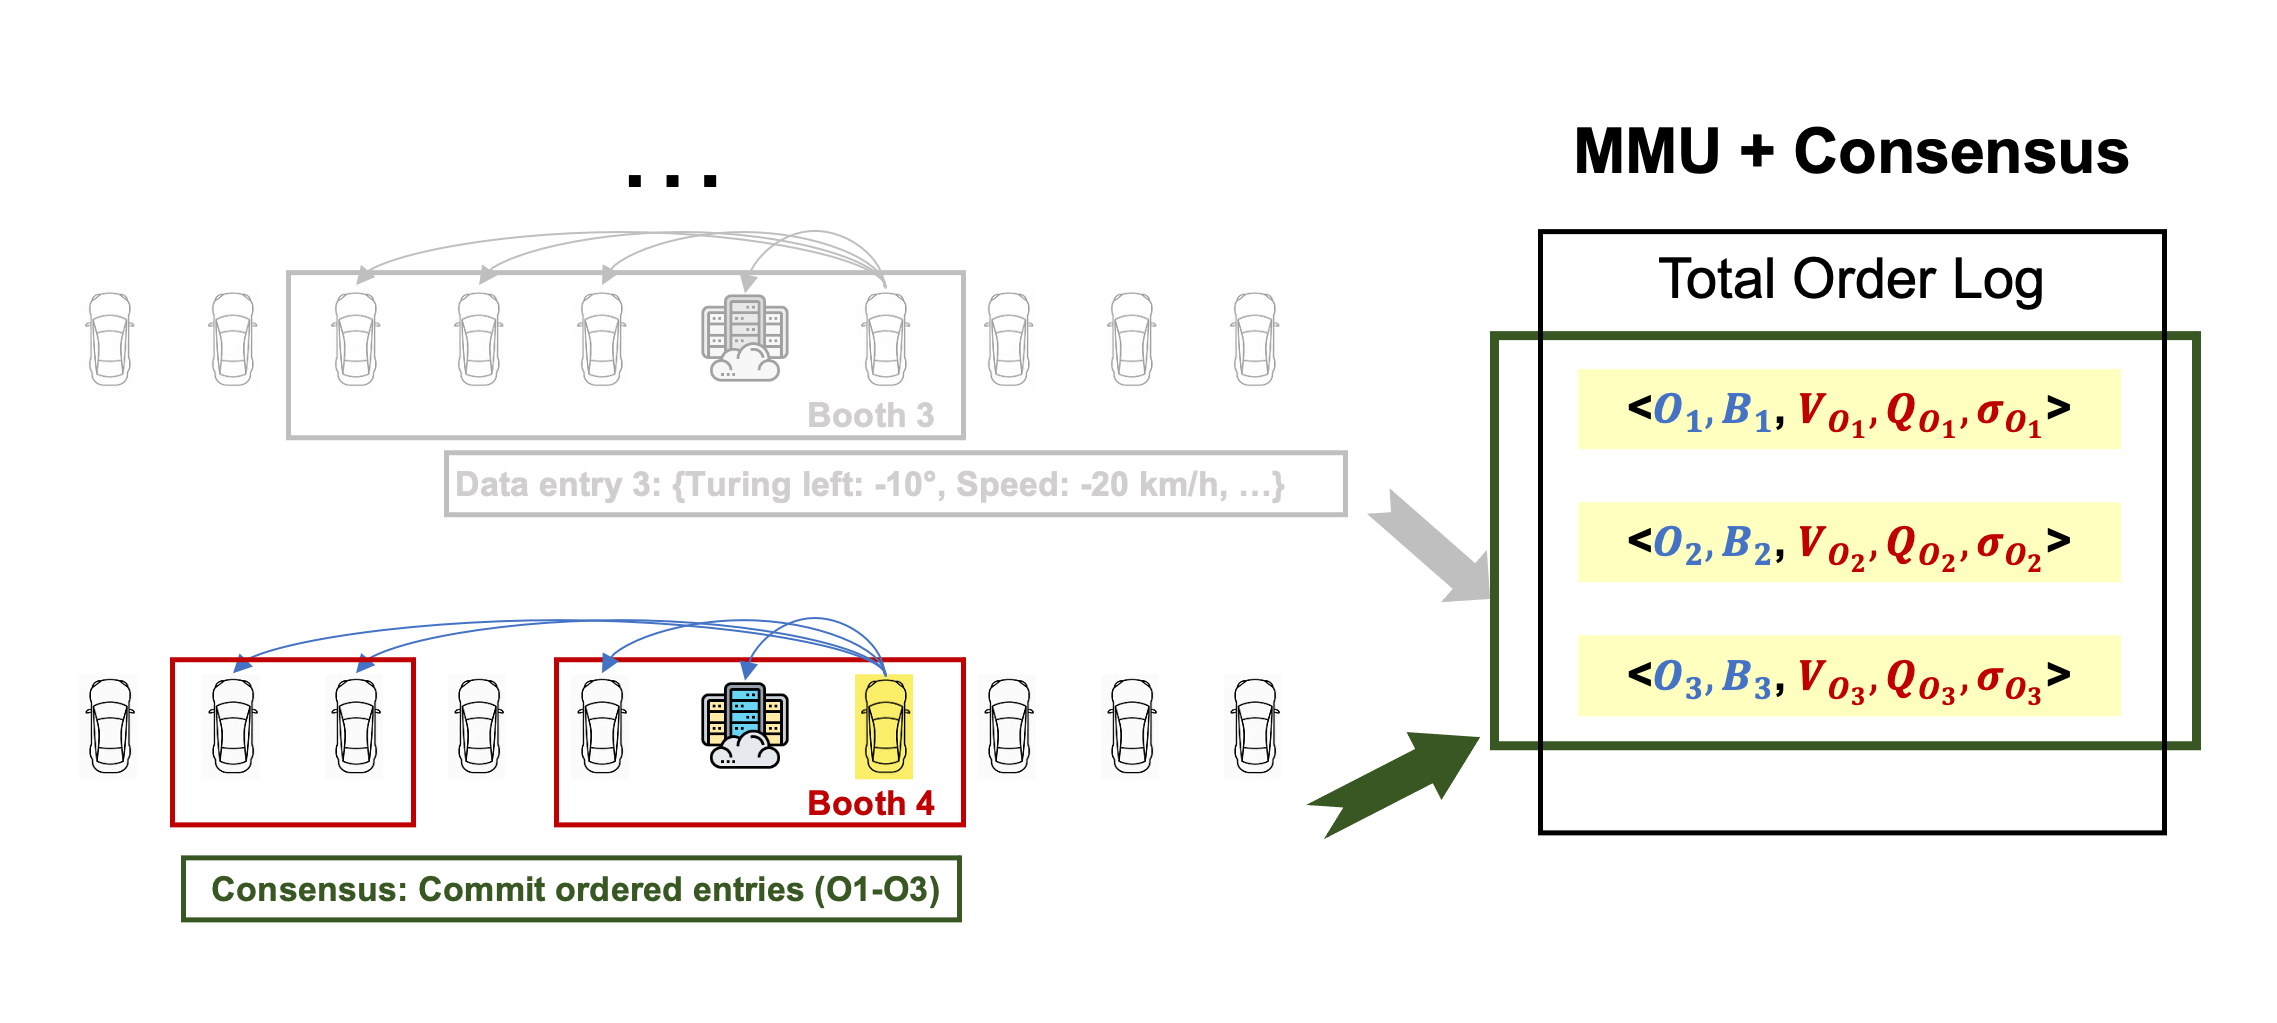
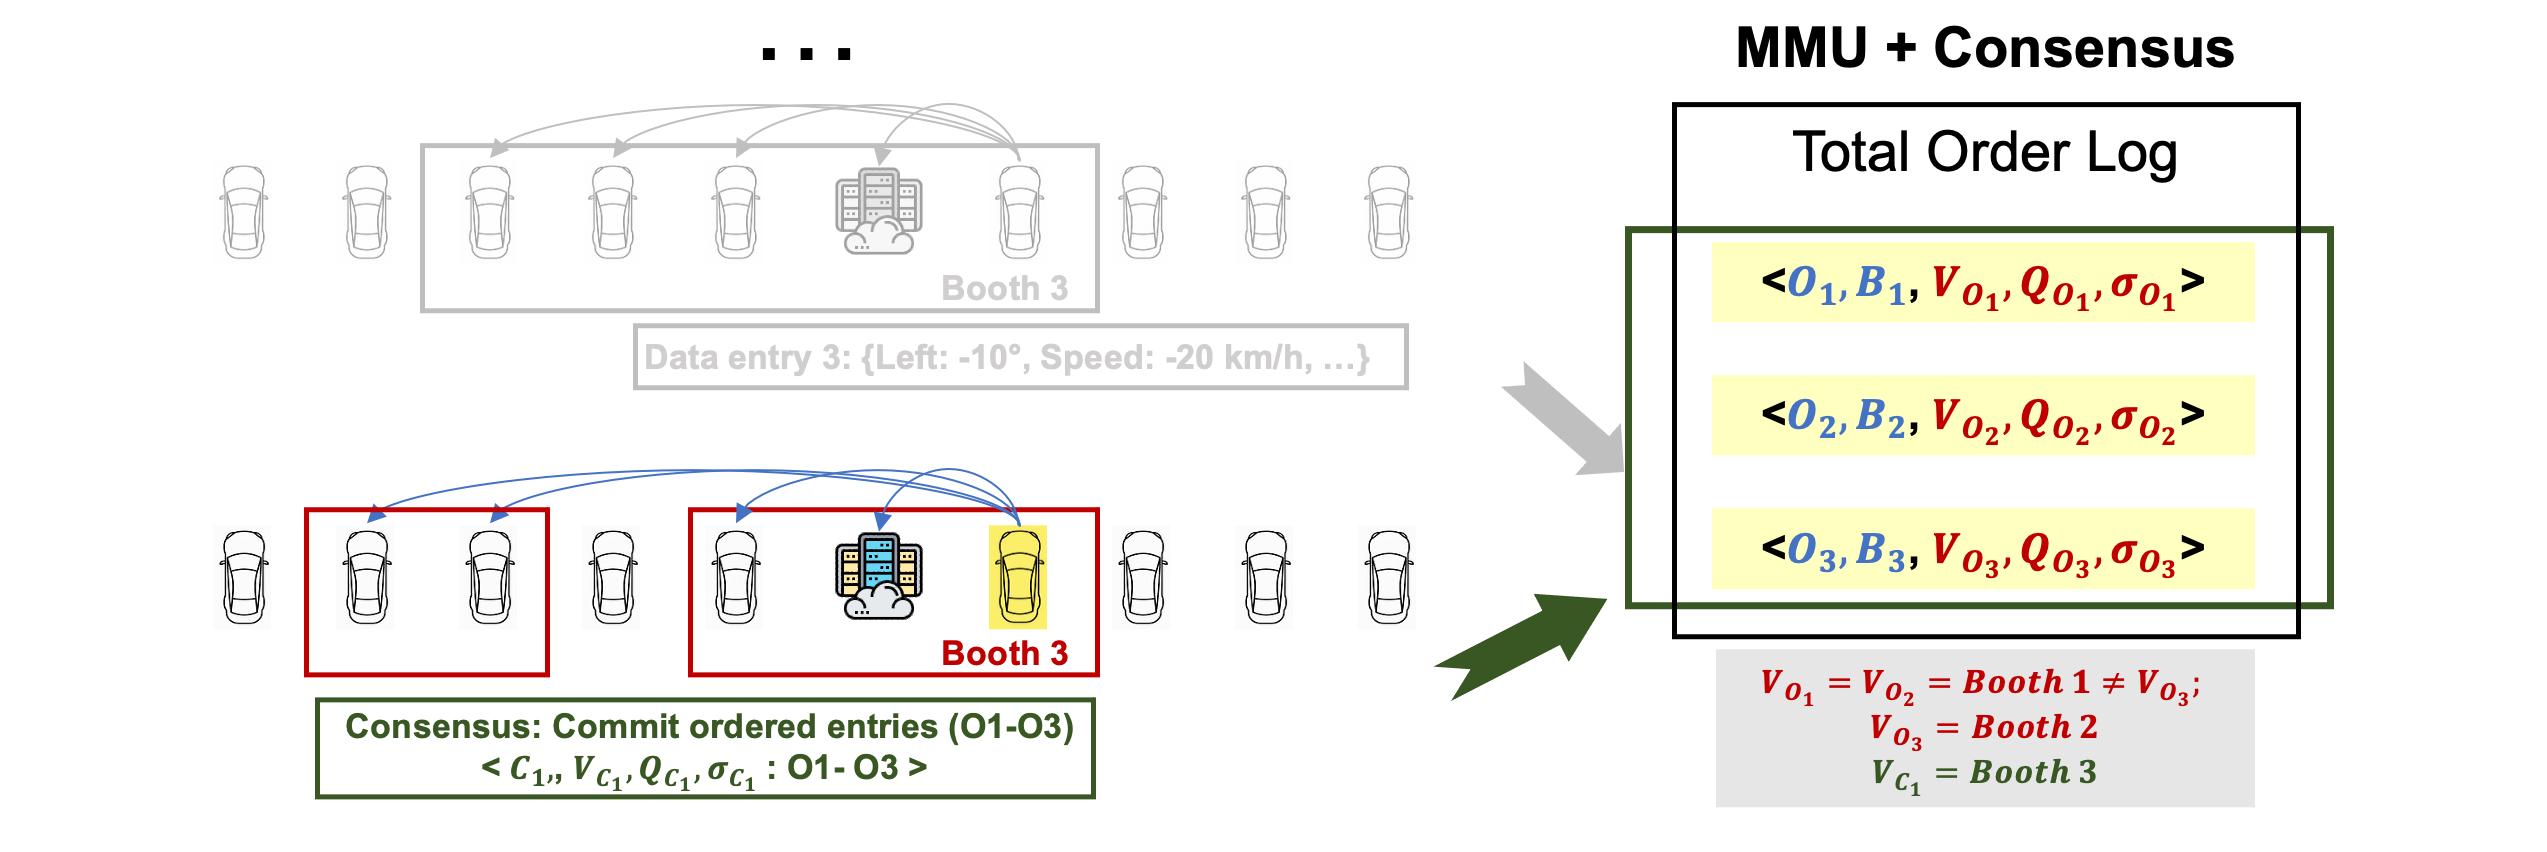
minor updates

diff --git a/main.go b/main.go
@@ -53,6 +53,10 @@ func init() {
 	fmt.Printf("| Booth size\t| %3d\t|\n", BoothSize)
 	fmt.Printf("| Quorum size\t| %3d\t|\n", Quorum)
 	fmt.Printf("-------------------------------\n")
+	if PlainStorage {
+		fmt.Printf("|-- Log shows at ./logs/s%d --|\n", ServerID)
+		fmt.Printf("-------------------------------\n")
+	}
 }
 
 func main() {

diff --git a/README.md b/README.md
@@ -3,31 +3,31 @@
 
 ## About V-Guard
 
-V-Guard achieves high performance operating under dynamically changing memberships, targeting the problem of vehicles' arbitrary connectivity on the roads. When dealing with membership changes, traditional BFT algorithms (e.g., PBFT and HotStuff) must stop any ongoing consensus process to update their system configuration using additional membership management approaches, thereby suffering from severe performance degradation.
+V-Guard achieves high performance operating under dynamically changing memberships, targeting the problem of vehicles' arbitrary connectivity on the roads. When dealing with membership changes, traditional BFT algorithms (e.g., PBFT and HotStuff) must stop to update system configurations using additional membership management approaches, thereby suffering from severe performance degradation.
 
 In contrast, V-Guard integrates the consensus of membership management into the consensus of data transactions. Compared to traditional BFT algorithms, V-Guard not only achieves consensus for data transactions but also for their residing membership configurations.
 
     # Consensus target of tradition BFT algorithms: <data transactions>
     # Consensus target of V-Guard: <data transactions, membership profiles>
 
-The integration makes V-Guard achieve consensus seamlessly under changing members (e.g., joining or leaving vehicles) and produces an immutable ledger recording traceable data with corresponding membership profiles.
+The integration makes V-Guard achieve consensus seamlessly under changing members (e.g., with joining or leaving vehicles) and produces an immutable ledger recording traceable data transactions with their corresponding membership profiles.
 
-### Features and Use Cases
+### Features and Workflow
 #### Membership Management Unit (MMU)
-V-Guard uses Membership Management Unit (MMU) to keep track of available vehicle connections and manage them into sets of membership profiles. The MMU describes a membership profile that contains a set of vehicles as a **booth**. The management of booths with a size of four is illustrated below.
+V-Guard develops a Membership Management Unit (MMU) that keeps track of available vehicle connections and manages membership profiles. The MMU describes a membership profile that contains a set of vehicles as a **booth**. Below illustrates the management of booths (of size 4).
 
 ![](./docs/booths.gif)
 
-### A use case example
-In below example, the yellow car is the proposer, and the MMU is managing 10 members. The consensus has two targets: data (in blue font) and its membership (in red font), where O is the orderingID (sequence #), B is the data batch, V is the booth, Q is the quorum, and Sigma is the threshold signature.
+### An Example of V-Guard's workflow
+In the below example, the yellow car is the proposer, and the MMU manages 10 members. The consensus target are the data (in blue font) and membership (in red font), where O is the orderingID (sequence #), B is the data batch, V is the booth, Q is the quorum, and Sigma is the threshold signature.
 
 ![](./docs/mmu-ordering.png)
 
-Ordering instances can take place in different booths. E.g., when the proposer conducts consensus for data entry 1, the ordering takes place in Booth 1. When Booth 1 is still available, the next ordering instance can reuse the booth (data entry 2). However, when Booth 1 is no longer available (e.g., some vehicles go offline), the MMU will provide a new booth (i.e., Booth 3) for a new ordering instance.
+Ordering instances can take place in different booths. E.g., when the proposer conducts consensus for data entry 1, the ordering takes place in Booth 1. When Booth 1 is still available, the next ordering instance reuses it (e.g., data entry 2). However, when Booth 1 becomes unavailable (e.g., some vehicles go offline), the MMU will provide a new booth (i.e., Booth 2) for the next ordering instance.
 
 ![](./docs/mmu-consensus.png)
 
-Consensus instances are executed periodically. They operate as "shuttle buses" with a sole purpose of committing the entries appended on the total order log. A consensus instance can operate in a different booth from ordering instances, where the new members will scrutinize the signatures of each entry if they have not participated in the corresponding ordering instance.
+Consensus instances are executed periodically as "shuttle buses" with a sole purpose of committing the entries appended on the total order log. A consensus instance (C) can also operate in a different booth where the new members will scrutinize the signatures of included entries that they have not validated previously.
 
 ## Try the Current Version
 
